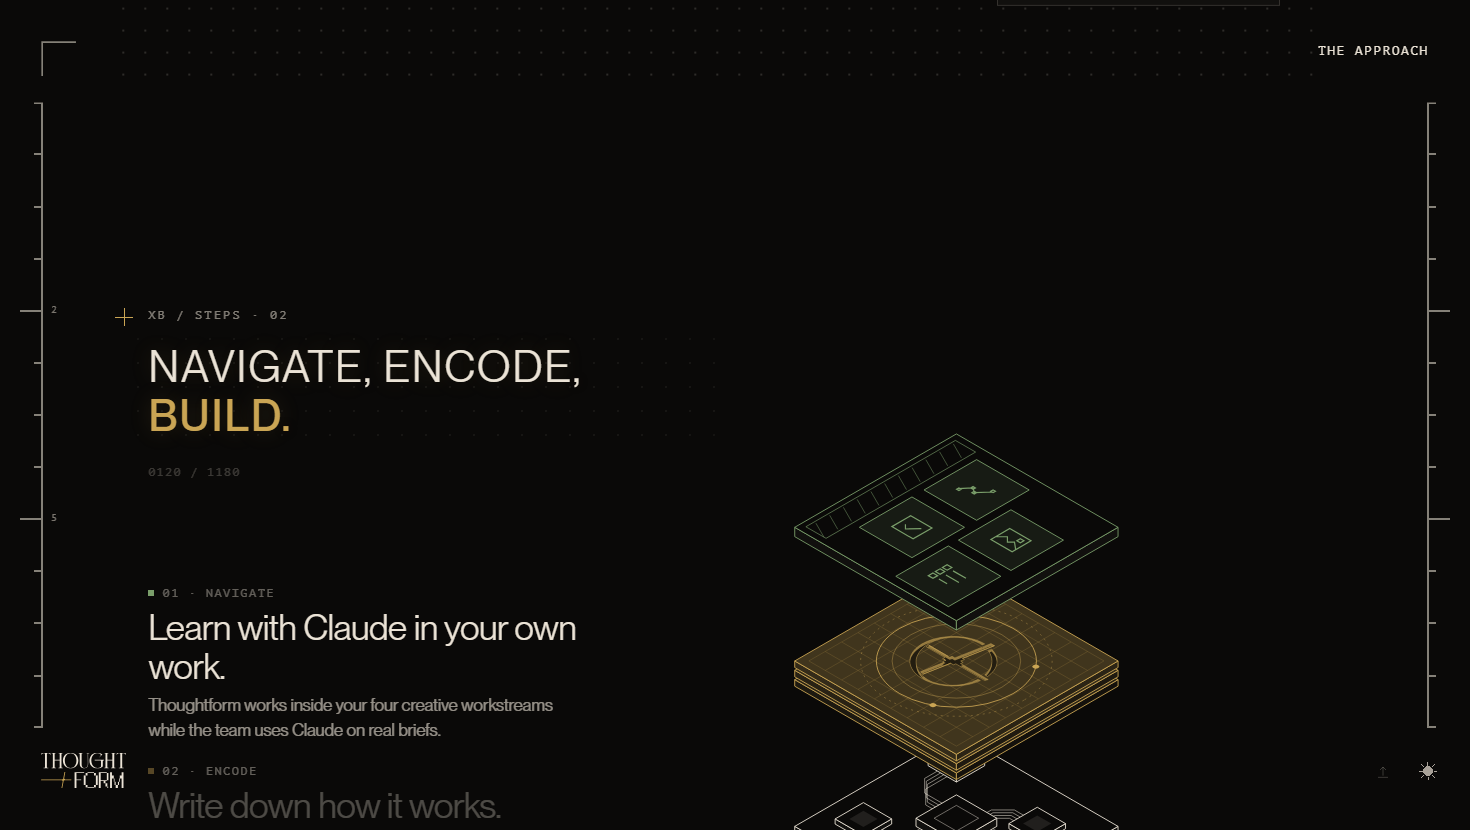
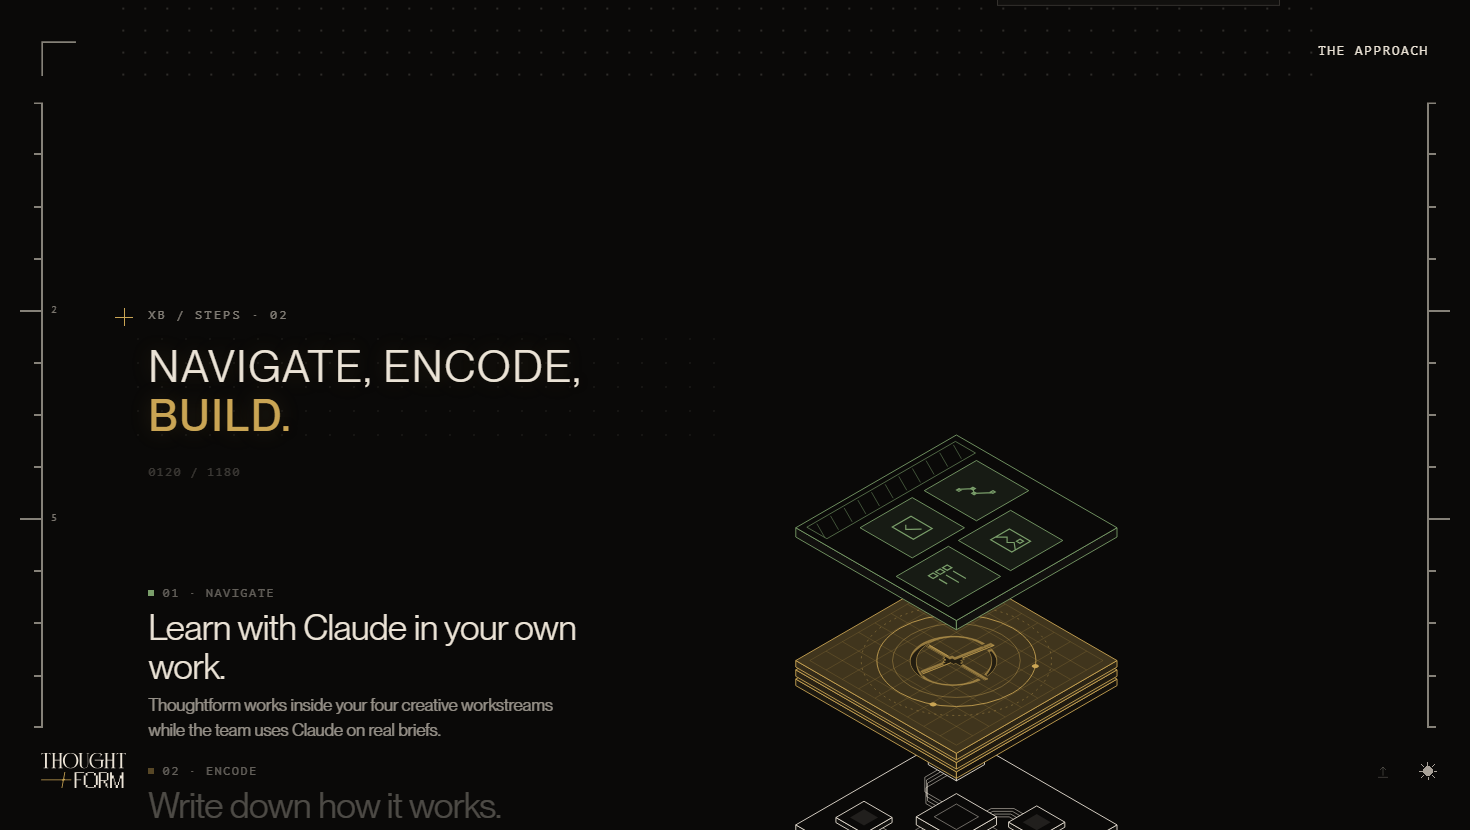
feat(test): the opening is the proposal's whole flow round a smaller stack
The owner made round 03's ask plain (2026-10-13): "integrate Navigate
with your team, built on Claude Enterprise, and all these things into
that new AI capability your team owns … the artifact in the middle of
the encode. Maybe we can make it a bit smaller."

- StackFlow now letters the layer's three parts, the last thing of the
  sent flow it left out: Context, Skills, Evals on a gold line out of the
  layer plate's left edge, down the gutter the way in leaves free. The
  tie to the tab keeps the right-hand gutter, so the gold turns about the
  centre as the flow does.
- The stack's box is 360 of the frame's 1200 (392px against round 02's
  560 at 1920 wide): its ink is as tall as the two columns and a little
  wider than the ringed hub it replaces.
- All four lines that touch the stack end on their plate's corner edge
  within 0.04px at three viewports; the tags clear the bus and the stack
  by 14px at 1280 wide and more above it. Lines and tags let go together
  as the stack leaves.
- ?hero=index stays for now as the other reading; the notes say so.

The sent page is unchanged: its stills from the pin onward are
pixel-identical to round 02's baseline.

Changed region(s): [[0.5204, 0.7831, 0.7653, 1.0], [0.551, 0.512, 0.7041, 0.6928]]

diff --git a/components/xb-proposal/stack/heroLayouts.ts b/components/xb-proposal/stack/heroLayouts.ts
@@ -8,9 +8,10 @@
    its right corner edge. A plate's corner edge is plumb in this projection,
    so a level line meets it square on.
 
-     FLOW   the proposal's own left and right return beside a smaller stack:
-            the team's bus runs into the team's plate, the agents' plate runs
-            out to the tools' bus, the layer is tied to its tab.
+     FLOW   the proposal's own flow, whole, round a smaller stack: the
+            team's bus runs into the team's plate, the agents' plate runs
+            out to the tools' bus, the layer is tied to its tab on one side
+            and letters its three parts on the other.
      INDEX  the index and the names of round 02, each on a line to its plate. */
 
 import { C30 } from "../iso";
@@ -43,10 +44,12 @@ export const PORTS: readonly Port[] = DEPTH.map((depth, i) => {
 /* ------------------------------------------------------------------ */
 
 const F = {
-  /** The stack's box, in the frame's units: a fifth less than the round 02
-      opening drew it (measured 436px against 560 at 1920 wide, 397 against
-      500 at 1470), which leaves a gutter a side for a line to be seen in. */
-  side: 400,
+  /** The stack's box, in the frame's units (owner, 2026-10-13, twice: "the
+      artifact in the middle … maybe we can make it a bit smaller"): its ink
+      is as tall as the two columns beside it and a little wider than the
+      ringed hub it replaces, which leaves a gutter a side wide enough for a
+      line to be seen in and for the layer's three parts to sit on one. */
+  side: 360,
   /** Both columns: as wide as each other, a stub off their bus (the stub is
       production's, 22), the same margin off the frame's edge. */
   col: 284,
@@ -59,6 +62,10 @@ const F = {
   /** The layer's tie: where it leaves its tab's line, and its 45-degree cut. */
   tieX0: 760,
   cut: 16,
+  /** The layer's three parts on its drop: the first tag's middle below the
+      drop's turn, then the pitch between tags. */
+  partsLead: 28,
+  partsPitch: 40,
 };
 
 function flow() {
@@ -78,8 +85,13 @@ function flow() {
   const busOut = cardX0 - F.stub;
   const half = F.junction / 2;
   const [team, layer, agents] = ports;
-  /* the tie runs plumb down the middle of the gutter the way out leaves free */
+  /* the layer's two lines each run plumb down the middle of a gutter: the
+     tie on the right, above the way out; the drop on the left, below the
+     way in. So the gold turns about the centre as the flow does. */
   const tieX = Math.round((layer.right[0] + busOut) / 2);
+  const dropX = Math.round((layer.left[0] + busIn) / 2);
+  const dropY = layer.left[1] + F.cut;
+  const parts = [0, 1, 2].map((n) => [dropX, dropY + F.partsLead + n * F.partsPitch] as Pt);
 
   return {
     k,
@@ -131,6 +143,11 @@ function flow() {
       [tieX - F.cut, layer.right[1]],
       layer.right,
     ] as Pt[],
+    /** The layer's drop: out of its plate's other edge, down the gutter,
+        ending in the last of its parts. */
+    drop: [layer.left, [dropX + F.cut, layer.left[1]], [dropX, dropY], parts[2]] as Pt[],
+    /** Context, Skills, Evals: three tags on the drop, each centred on it. */
+    parts,
     /* each tab centred over what it heads, as production seats them */
     tabs: { team: chipX0 + F.col / 2, layer: HUB[0], run: cardX0 + F.col / 2, y: TAB_Y },
   };

diff --git a/components/xb-proposal/stack/StackFlow.tsx b/components/xb-proposal/stack/StackFlow.tsx
@@ -5,16 +5,22 @@
    and right sides. Let's make a combination where you can really see the
    lines connecting to the different parts of the stack").
 
-   The proposal's flow with the stack where its ringed hub was, and smaller
-   than the opening first drew it. What each line says:
+   Asked again the same day, more plainly: "integrate Navigate with your
+   team, built on Claude Enterprise, and all these things into that new AI
+   capability your team owns … the artifact in the middle … maybe we can
+   make it a bit smaller".
+
+   So: the proposal's flow, whole, with the stack where its ringed hub was,
+   no larger than it needs to be. What each line says:
      · left, your team: the four workstreams on one bus, which runs level
        into the TEAM's plate, the stack's top;
-     · the layer, the middle plate: tied to its tab by one quiet line down
-       the gutter the way out leaves free;
+     · the layer, the middle plate: tied to its tab by one gold line down
+       the right-hand gutter, and lettering its three parts (context,
+       skills, evals) on a second down the left;
      · right, Claude Enterprise: the AGENTS' plate, the stack's bottom, runs
        level out onto the bus that feeds the tools.
-   In high on the left, out low on the right: the figure turns onto itself
-   about its centre.
+   In high on the left, out low on the right, the gold the other way round:
+   the figure turns onto itself about its centre.
 
    The chips, the cards, the tabs and every word are production's, by
    reference (`PlugFlow`, `plugShared`); the geometry is `heroLayouts.ts`.
@@ -27,7 +33,7 @@ import { Junction, Tap } from "../kit/marks";
 import { pathOf } from "../kit/trace";
 import { MastheadTitle } from "../Masthead";
 import { CARDS, H, Tab, TITLE, W } from "../plug/PlugFlow";
-import { Cards, Chips, delay, Draw, FIG_LABEL } from "../plug/plugShared";
+import { Cards, Chips, delay, Draw, FIG_LABEL, PartTags } from "../plug/plugShared";
 import { useArrive } from "../useArrive";
 
 import { ClosedStack } from "./ClosedStack";
@@ -84,6 +90,8 @@ export function StackFlow() {
             <g className="shf-fade" style={delay(900)}>
               <path d={pathOf(L.tie)} className="shf-tie" />
               <Tap at={layer.right} size={5} />
+              <path d={pathOf(L.drop)} className="shf-tie" />
+              <Tap at={layer.left} size={5} />
             </g>
 
             <Draw pts={L.runOut} className="shf-run" d={1000} />
@@ -118,6 +126,10 @@ export function StackFlow() {
         <Tab id="run" x={L.tabs.run} y={L.tabs.y} d="1200ms" />
 
         <Chips seats={L.chips} />
+        {/* the layer's parts, on its drop; they let go with it */}
+        <div className="shf-parts">
+          <PartTags seats={L.parts} />
+        </div>
         <Cards x0={L.cards.x0} x1={L.cards.x1} rows={L.cards.rows} />
       </figure>
     </div>

diff --git a/tests/lib/proposal-kit.test.ts b/tests/lib/proposal-kit.test.ts
@@ -351,6 +351,28 @@ describe("the opening's lines", () => {
     }
   });
 
+  it("the flow: the layer letters its three parts down the gutter the way in leaves free", () => {
+    const [team, layer] = FLOW.ports;
+    expect(isStraight(FLOW.drop)).toBe(true);
+    expect(pathOf(FLOW.drop)).not.toMatch(/[CQSA]/);
+    expect(FLOW.drop[0]).toEqual(layer.left);
+    // below the way in, between the team's bus and the stack
+    expect(Math.min(...FLOW.drop.map((p) => p[1]))).toBeGreaterThan(team.left[1]);
+    for (const p of FLOW.drop.slice(1)) {
+      expect(p[0]).toBeGreaterThan(FLOW.team.bus[0][0]);
+      expect(p[0]).toBeLessThan(layer.left[0]);
+    }
+    // three tags, each centred on the drop's plumb run, the last where it ends
+    expect(FLOW.parts).toHaveLength(3);
+    const x = FLOW.drop.at(-1)![0];
+    for (const p of FLOW.parts) expect(p[0]).toBe(x);
+    expect(FLOW.parts[2]).toEqual(FLOW.drop.at(-1));
+    expect(FLOW.parts[0][1]).toBeGreaterThan(FLOW.drop[2][1]);
+    // and the gold turns about the centre as the flow does: tie right, drop left
+    const tieX = Math.max(...FLOW.tie.map((p) => p[0]));
+    expect(tieX + x).toBe(2 * HUB[0]);
+  });
+
   it("the flow: each run leaves or meets its bus at a junction on the bus", () => {
     const half = FLOW.team.junction.size / 2;
     expect(FLOW.team.junction.at[0]).toBe(FLOW.team.bus[0][0]);

diff --git a/app/(internal)/test/proposal-travel/layout.tsx b/app/(internal)/test/proposal-travel/layout.tsx
@@ -15,10 +15,11 @@ import type { ReactNode } from "react";
  * team." as it does on the proposal. Every other section is the proposal's
  * own record, by reference.
  *
- * The opening has two figures (owner, same day: "a combination where you can
- * really see the lines connecting to the different parts of the stack"): the
- * proposal's flow with the stack where its hub was (`StackFlow`, the
- * default), and a number and a name a plate (`StackHero`, `?hero=index`).
+ * The opening is the proposal's own flow with the stack where its ringed hub
+ * was (`StackFlow`; owner, same day: "integrate Navigate with your team,
+ * built on Claude Enterprise, and all these things into that new AI
+ * capability your team owns"). `?hero=index` keeps the other reading for
+ * now: a number and a name a plate (`StackHero`).
  *
  * Internal-only: the sent page, its record and its listing are untouched.
  */

diff --git a/components/xb-proposal/stack/stack-hero.css b/components/xb-proposal/stack/stack-hero.css
@@ -34,7 +34,8 @@
    within the first twenty-fifth of the way (`--sh-away` is the arrival's
    clock; absent, they are simply there) */
 .sh-leads,
-.shf-port {
+.shf-port,
+.shf-parts > div {
   opacity: calc(1 - var(--sh-away, 0) * 25);
 }
 
@@ -58,6 +59,19 @@
 .shf-stage {
   width: calc(var(--s) * 100%);
   aspect-ratio: 1;
+}
+
+/* the layer's parts: a wrapper with no box of its own, so each tag is still
+   seated by the frame's own rule (its font size restated, the rule being
+   for the frame's direct children) */
+.shf-parts {
+  display: contents;
+}
+.shf-parts > div {
+  position: absolute;
+  left: calc(var(--px) * 100%);
+  top: calc(var(--py) * 100%);
+  font-size: max(12px, 1.05cqw);
 }
 
 /* a chip as wide as a card: two columns of one width */

diff --git a/app/(internal)/test/proposal-travel/page.tsx b/app/(internal)/test/proposal-travel/page.tsx
@@ -62,9 +62,9 @@ type Query = Record<string, string | string[] | undefined>;
  * wrappers `ArcFlowPorts` gives them on the proposal; the rest go through
  * `ArcSectionRenderer` untouched, offset so each keeps its own index.
  *
- * The opening has two figures, both the same donor to the arrival:
- *   (default)     the flow through the stack: the team and the tools beside it
- *   ?hero=index   a number and a name a plate, each on a line to it
+ * The opening, the same donor to the arrival either way:
+ *   (default)     the proposal's flow, the stack where its ringed hub was
+ *   ?hero=index   the other reading, kept for now: a number and a name a plate
  */
 export default async function ProposalTravelRoute({
   searchParams,

diff --git a/docs/design/proposal-kit/README.md b/docs/design/proposal-kit/README.md
@@ -143,41 +143,47 @@ Stills: `round-02/job/` and `round-02/contact-job-*.png`.
 
 # Round 03 (2026-10-13)
 
-The owner's read of the stack-first opening: "I like the travel but I think we can make it a bit smaller. I think we lost the context from the left and right sides. Let's make a combination where you can really see the lines connecting to the different parts of the stack."
+The owner's read of the stack-first opening, in two messages:
 
-Two figures answer it, on the same copy of the proposal. Both are the same donor to the arrival, so the travel is the one he liked; nothing after section 1 changed.
+> I like the travel but I think we can make it a bit smaller. I think we lost the context from the left and right sides. Let's make a combination where you can really see the lines connecting to the different parts of the stack.
+
+> I was wondering whether we can integrate Navigate with your team, built on Claude Enterprise, and all these things into that new AI capability your team owns … the artifact in the middle of the encode. Maybe we can make it a bit smaller.
+
+So the opening is the sent page's flow, whole, with the stack where its ringed hub was. It lives on the copy of the proposal, not on the sent page:
 
 ```
 http://localhost:3019/test/proposal-travel
-http://localhost:3019/test/proposal-travel?hero=index
 ```
 
-## H1 · The flow through the stack (the default)
+## The flow through the stack
 
-`components/xb-proposal/stack/StackFlow.tsx`. Read as: the left and the right of the sent page's flow are the context that went missing. They return beside the stack, which takes the place of the ringed hub.
+`components/xb-proposal/stack/StackFlow.tsx`, geometry in `stack/heroLayouts.ts`.
 
-- **Left, your team**: the four workstreams on one bus, which runs level into the **team's plate**, the stack's top.
-- **The layer**: the middle plate, tied to its tab by one gold line down the gutter the way out leaves free.
-- **Right, Claude Enterprise**: the **agents' plate**, the stack's bottom, runs level out onto the bus that feeds the four tool cards.
-- In high on the left, out low on the right: the two runs and their junctions turn onto each other about the frame's centre.
-- The chips, the cards, the tabs and every word are production's, by reference. The chips are as wide as the cards here, so the two columns are one width.
+- **Left, "01 · Navigate with your team"**: the four workstreams on one bus, which runs level into the **team's plate**, the stack's top.
+- **Centre, "02 · Encode your context"**: the **layer's plate**, the middle one. One gold line ties it to its tab down the right-hand gutter; a second leaves its other edge and letters its three parts, Context, Skills, Evals, down the left-hand one.
+- **Right, "03 · Build on Claude Enterprise"**: the **agents' plate**, the stack's bottom, runs level out onto the bus that feeds the four tool cards.
+- The flow comes in high on the left and leaves low on the right; the gold goes the other way round. The figure turns onto itself about its centre.
+- The tabs, the chips, the tags, the cards and every word are production's, by reference. Against production: every connector is straight (the kit's law), the chips are as wide as the cards so the two columns are one width, and the rows are closer so the columns stand no taller than the stack.
 
-## H2 · Index and names (`?hero=index`)
-
-`StackHero.tsx`, round 02's figure. Read as: the numbers and the names were too far from the stack to belong to it. Each row now sits on a level line to the plate it names, in that plate's tone, and the two brackets that held the columns are gone.
+The travel is round 02's: the stack is the same donor to the arrival, and nothing after section 1 changed.
 
 ## Measured
 
-- **Smaller**: the stack's box is 436px against 560 at 1920×1247 and 397 against 500 at 1470×830 in H1 (a fifth less); 440 and 420 in H2.
-- **The lines meet the plates**: every line ends on the middle of its plate's corner edge within 0.07px, both figures, at 1280×720, 1470×830 and 1920×1247. A plate's corner edge is plumb in this projection, so a level line meets it square on (`stack/heroLayouts.ts`, held by `tests/lib/proposal-kit.test.ts`).
+- **Smaller**: the stack's box is 392px against 560 at 1920×1247 and 358 against 500 at 1470×830. Its ink is a little wider than the ringed hub it replaces.
+- **The lines meet the plates**: all four lines that touch the stack end on the middle of their plate's corner edge within 0.04px, at 1280×720, 1470×830 and 1920×1247. A plate's corner edge is plumb in this projection, so a level line meets it square on (held by `tests/lib/proposal-kit.test.ts`).
+- **The three tags** sit centred on their line within 0.06px and clear both the team's bus and the stack by 14px at 1280×720, 22px at 1470×830 and 25px at 1920×1247.
 - **The sent page did not change**: its stills from the pin onward are pixel-identical to round 02's baseline. The one edit to a shipped file is three lines inside `EmbedStack`'s opt-in arrival.
 
-One thing added beyond the ask: the lines that touch the stack let go as it leaves. The stack holds its place on screen while section 1 scrolls away, so a line left standing would point at nothing; they are gone within the first twenty-fifth of the way and back when the reader returns.
+One thing added beyond the ask: the lines and tags that touch the stack let go as it leaves. The stack holds its place on screen while section 1 scrolls away, so a line left standing would point at nothing; they are gone within the first twenty-fifth of the way and back when the reader returns.
 
-Stills: `round-03/flow/` and `round-03/index/` (section 1 at rest, the arrival at a quarter, a half and three quarters, the pin; three viewports, both themes). Re-shoot with `node scripts/capture-proposal-travel.mjs --port 3019 --page travel --out <dir>`, adding `--hero index` for H2.
+Stills: `round-03/flow/` (section 1 at rest, the arrival at a quarter, a half and three quarters, the pin; three viewports, both themes). Re-shoot with `node scripts/capture-proposal-travel.mjs --port 3019 --page travel --out <dir>`.
+
+## The other reading, kept for now
+
+`?hero=index` on the same page is round 02's figure with a level line from each number and each name to the plate it names (`StackHero.tsx`). It was built before the second message made the ask plain; it is not what was asked and goes when the opening is ported. Stills in `round-03/index/`.
 
 ## Not done in round 03
 
-- The layer's three parts (Context, Skills, Evals) are not lettered in H1; the sent page's flow letters them on its rings.
-- Nothing below 961px was looked at, in either figure.
+- Nothing below 961px was looked at.
 - At 1280×720 the tab over the tools is wider than its column by 25px a side (it is at the 12px floor there).
+- Nothing was ported to the sent page.
